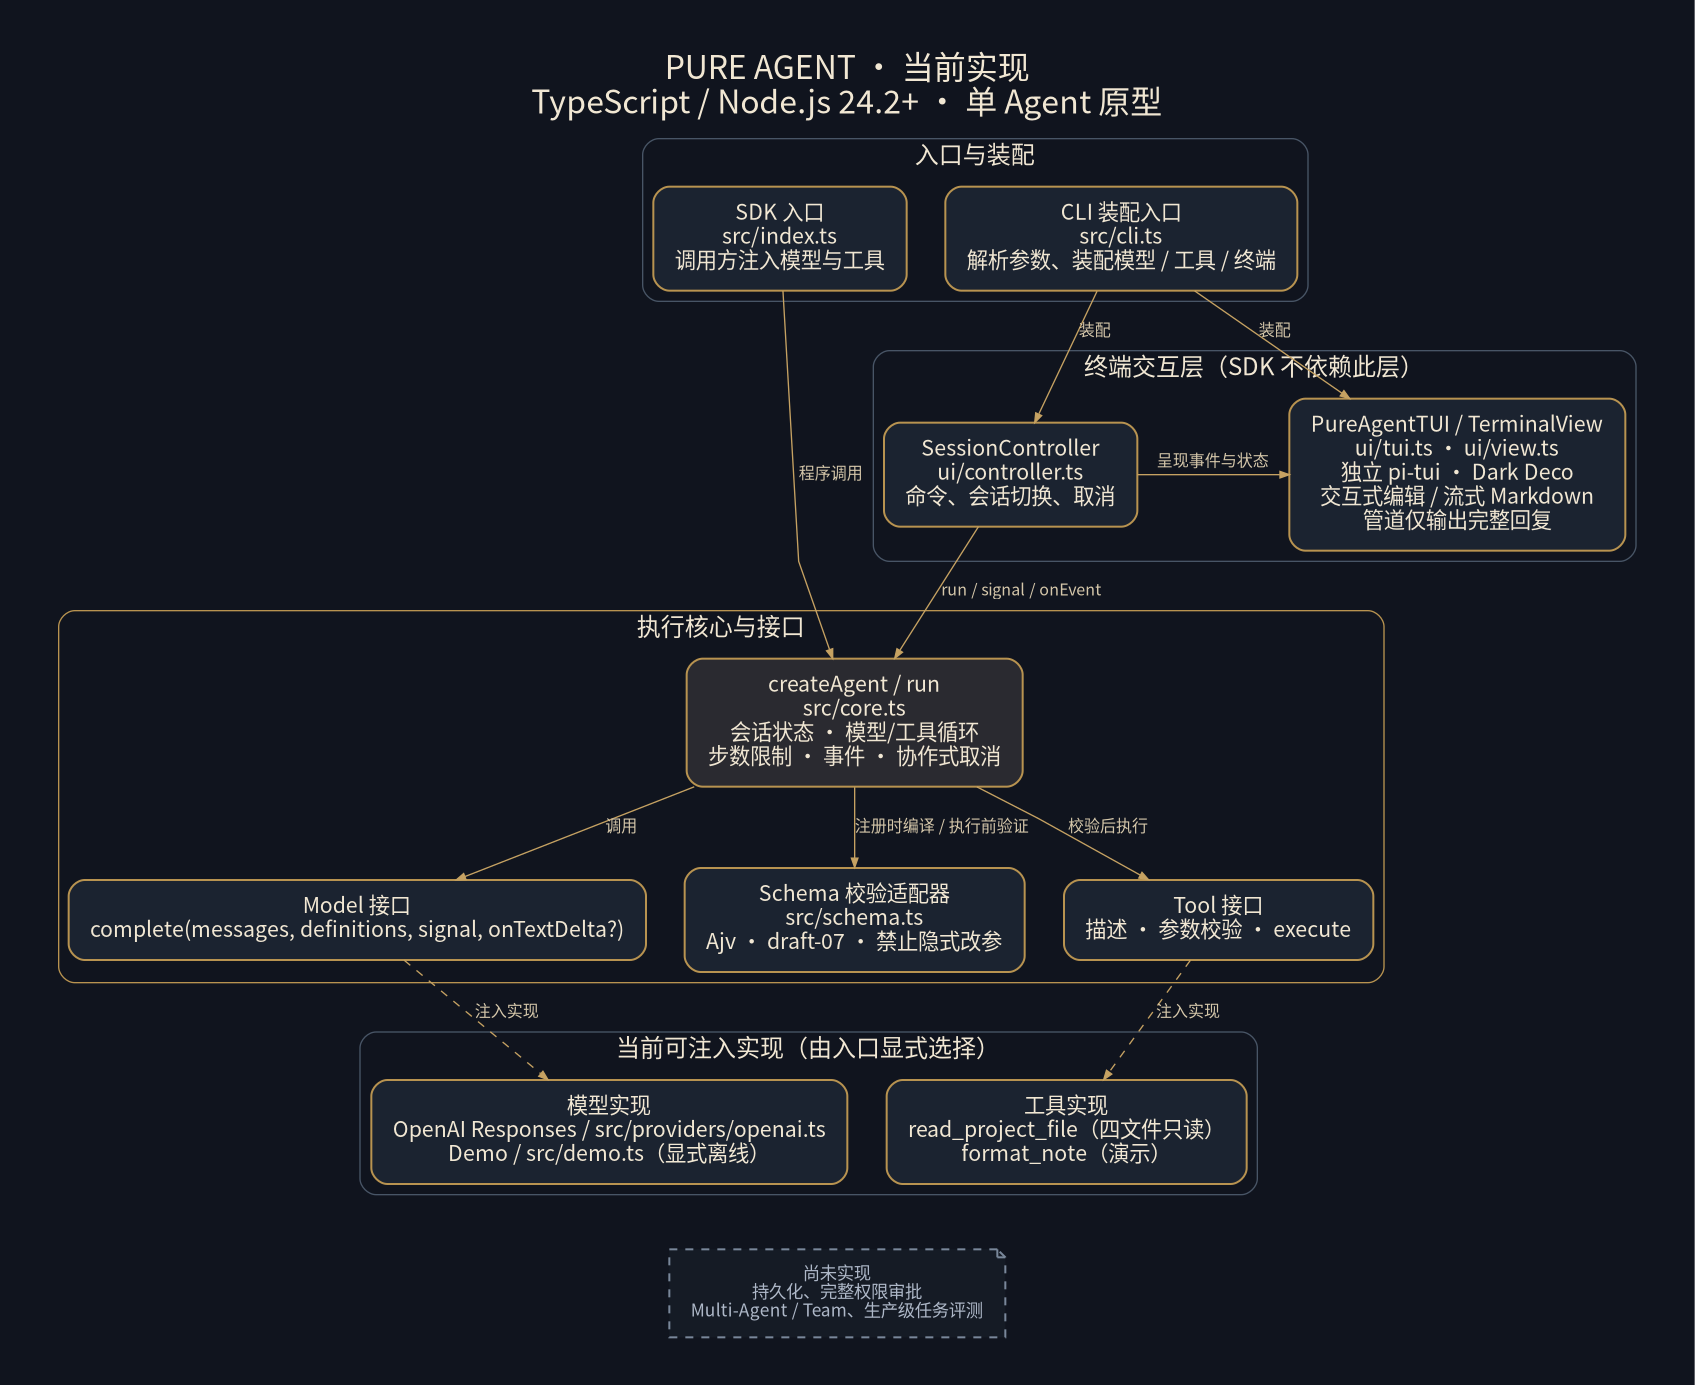
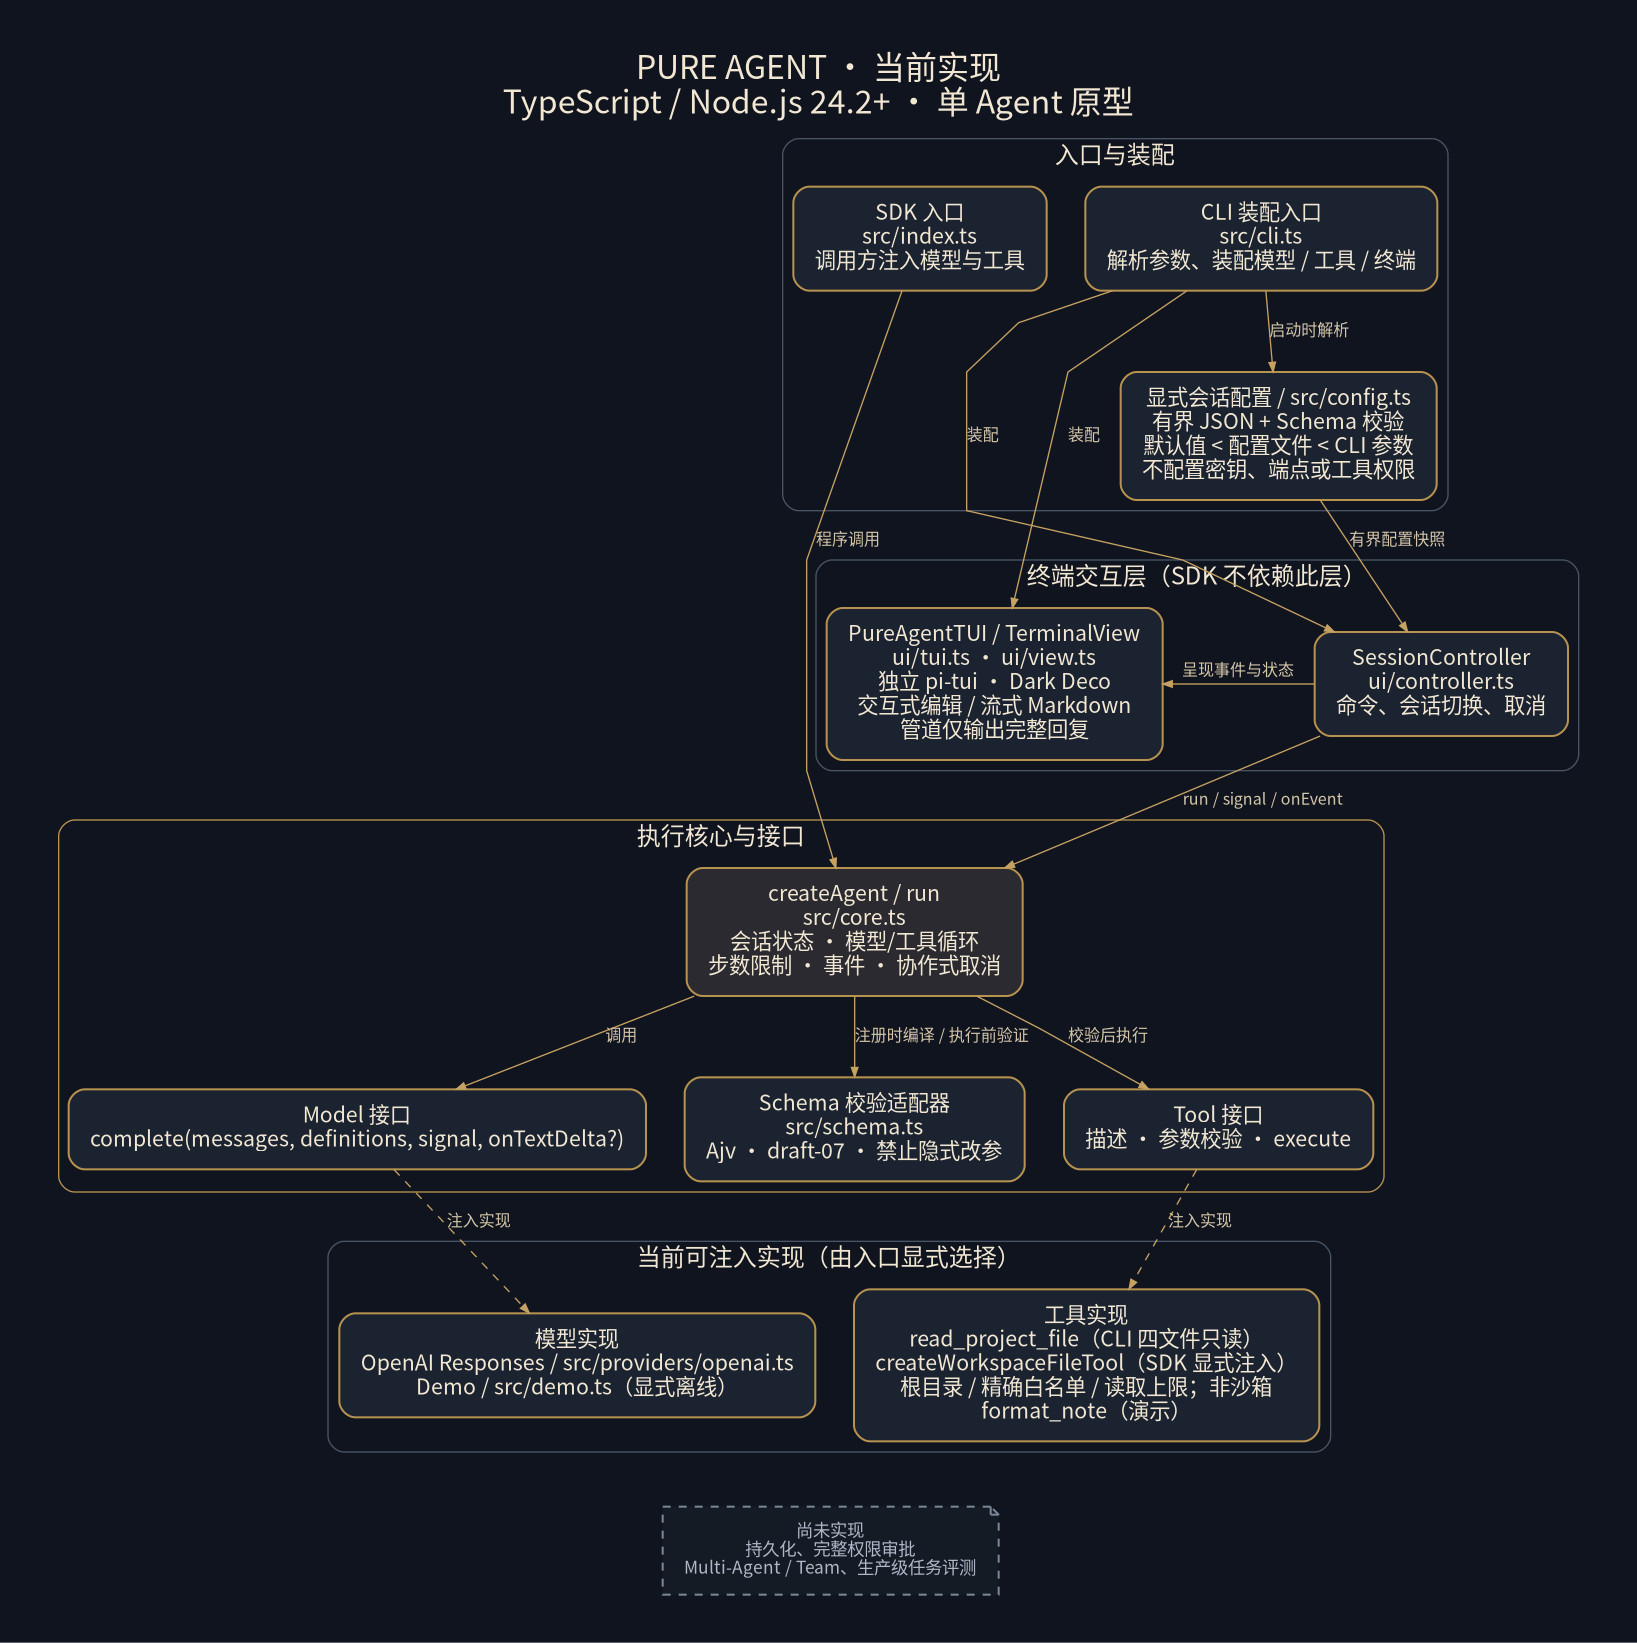
docs: update accepted SDK capabilities and architecture evidence

diff --git a/README.md b/README.md
@@ -56,13 +56,13 @@ node src/cli.ts --demo --prompt "整理这条演示笔记"
 
 ## 当前验证
 
-2026-11-02 状态快照：主干已合并初始化、显式配置、流式输出与 Windows 安装包验收。独立验收及 [双平台 CI](https://github.com/pixelieee/pure-agent/actions/runs/41493013469) 记录：Ubuntu、Windows 均通过 139 项离线测试及 1 项安装包测试；冷缓存安装包问题已修复。本文档更新未重新运行测试，后续状态以对应提交的检查为准。
+2026-11-02 状态快照：主干已合并 PR #1–#8，包括显式配置、流式输出、Windows 安装包验收、可选 SDK 工作区读取工具、CI 汇总门禁与严格静态检查。已接受主干提交为 [`3f65d5e`](https://github.com/pixelieee/pure-agent/commit/3f65d5efa3fd5169ecaae3d3e02b6b98ba7e59fe)；独立验收及 [双平台 CI run 41495942252](https://github.com/pixelieee/pure-agent/actions/runs/41495942252) 记录：Ubuntu、Windows 均通过 165 项离线测试及 2 项安装包测试，`Offline acceptance gate` 通过。本文档更新未重新运行测试，后续状态以对应提交的检查为准。
 
 终端已有交互输入、窄屏降级、重定向输出、取消后继续运行与退出的验证记录。真实模型记录只覆盖三轮限定项目资料交互与 Token 用量，不代表流式功能的真实模型验收、通用任务准确率或生产验收。
 
-安装开发依赖后执行 `npm run check`。运行时复用 Ajv、string-width、官方 OpenAI SDK 和独立 Pi TUI 模块，安装使用锁文件；不把零依赖当作目标。
+安装开发依赖后执行 `npm run check`，其中类型检查已启用 `noUnusedLocals`、`noUnusedParameters`、`noFallthroughCasesInSwitch` 和 `noImplicitReturns`；这不等于已采用完整 lint / format 门禁。GitHub 分支保护仍待确认，不能把汇总 CI 检查等同于已强制执行的保护规则。运行时复用 Ajv、string-width、官方 OpenAI SDK 和独立 Pi TUI 模块，安装使用锁文件；不把零依赖当作目标。
 
-架构图见 `docs/architecture.png`，可编辑源文件为 `docs/architecture.dot`，矢量版本为 `docs/architecture.svg`。
+架构图见 `docs/architecture.png`，可编辑源文件为 `docs/architecture.dot`，矢量版本为 `docs/architecture.svg`。使用 Graphviz 重建：`dot -Tsvg docs/architecture.dot -o docs/architecture.svg`、`dot -Tpng docs/architecture.dot -o docs/architecture.png`。
 
 ## 定位
 
@@ -103,7 +103,7 @@ node --use-env-proxy --env-file=.env.local src/cli.ts --openai --reasoning low
 
 密钥仅放本地忽略文件或由宿主注入，不能提交。CLI 默认 GPT-5.6 Luna、low；SDK 通过 `pure-agent/providers/openai` 导入适配器。当前适配器使用官方 OpenAI Responses SDK 流式接口，不自行解析 SSE；交互式 TUI 增量更新同一个 Markdown 块，管道输出仍仅显示完整回复。中断的局部文本会标记为未保存，不写入会话历史。每次回复默认最多 1024 输出 token（包括 reasoning），每轮 Agent 最多 4 个模型步骤。
 
-当前 CLI 的真实模式只提供 `read_project_file`，允许 README、package.json、依赖决策和测试前基线四个指定文件；不提供任意文件读取、shell、写入或网络工具。SDK 可注入其他工具，但宿主必须负责授权和隔离。`/create` 只修改当前 Agent 指令，不动态生成工具。
+当前 CLI 的真实模式只提供 `read_project_file`，允许 README、package.json、依赖决策和测试前基线四个指定文件；不提供任意文件读取、shell、写入或网络工具。SDK 已提供可显式注入的 `createWorkspaceFileTool`：由宿主指定根目录、精确文件白名单与读取上限，详见 [工作区只读工具](docs/workspace-file-tool.md)。它默认不注册，不自动扩大 CLI 能力，也不是安全沙箱。SDK 可注入其他工具，但宿主必须负责授权和隔离。`/create` 只修改当前 Agent 指令，不动态生成工具。
 
 模型续接数据作为 `providerData` 由适配器持有在消息中，核心仅复制保留；真实测试导出记录不包含它。`onUsage` 只回传数值用量，SDK 错误不回显请求头或密钥。
 

diff --git a/docs/roadmap.md b/docs/roadmap.md
@@ -4,20 +4,22 @@
 
 ## 已合并主干
 
-2026-11-02 状态快照：主干已合并 [初始化 PR #1](https://github.com/pixelieee/pure-agent/pull/1)、[配置 PR #2](https://github.com/pixelieee/pure-agent/pull/2)、[流式输出 PR #3](https://github.com/pixelieee/pure-agent/pull/3) 、[Windows 安装包验收 PR #5](https://github.com/pixelieee/pure-agent/pull/5) 和 [CI 汇总门禁 PR #7](https://github.com/pixelieee/pure-agent/pull/7)。
+2026-11-02 状态快照：主干已合并 PR #1–#8：初始化、显式配置、流式输出、公开文档、Windows 安装包验收、[可选 SDK 工作区读取 PR #6](https://github.com/pixelieee/pure-agent/pull/6)、[CI 汇总门禁 PR #7](https://github.com/pixelieee/pure-agent/pull/7) 与 [严格静态检查 PR #8](https://github.com/pixelieee/pure-agent/pull/8)。已接受主干提交为 [`3f65d5e`](https://github.com/pixelieee/pure-agent/commit/3f65d5efa3fd5169ecaae3d3e02b6b98ba7e59fe)。
 
 - 单会话模型 → 工具 → 观察循环，注入模型与工具，顺序执行、步数上限、协作式取消和可观察结果。
 - SDK 与 CLI 共用核心；确定性离线演示、官方 OpenAI Responses 适配器与限定文件的只读项目工具。
+- SDK 可显式注入 `createWorkspaceFileTool`：宿主选择根目录、精确文件白名单和读取上限；默认不注册、不扩大 CLI 权限，也不是沙箱。CLI 真实模式仍只有四个指定文件的读取能力，不提供任意文件读取、shell 或写入。详见 [工作区只读工具](workspace-file-tool.md)。
 - 显式 JSON 会话配置：内置默认值 < 配置文件 < 显式 CLI 参数；不自动发现配置，不允许凭据或端点覆盖。详见 [配置文档](configuration.md)。
 - 官方 SDK 流式输出与 Pi TUI 增量 Markdown 渲染；管道保留完整回复输出，中断局部文本不写入会话历史。
 - 独立 Pi TUI 模块承载编辑与终端交互，Dark Deco 视觉层不引入另一套执行核心。
-- JSON Schema 参数校验、SDK / CLI 本地安装包验收与离线模型 CI；冷缓存安装包问题已修复。固定检查 `Offline acceptance gate` 汇总双平台结果，拒绝失败、取消或跳过；GitHub 分支保护尚未配置。
+- JSON Schema 参数校验、SDK / CLI 本地安装包验收与离线模型 CI；冷缓存安装包问题已修复。固定检查 `Offline acceptance gate` 汇总双平台结果，拒绝失败、取消或跳过；GitHub 分支保护仍待用户确认，尚未配置。
+- TypeScript 已启用 `noUnusedLocals`、`noUnusedParameters`、`noFallthroughCasesInSwitch` 与 `noImplicitReturns`；仅代表这四项静态检查已采用，不代表完整 lint / format 门禁。
 
-独立验收与 [CI run 41493725748](https://github.com/pixelieee/pure-agent/actions/runs/41493725748) 记录：Ubuntu 与 Windows 均通过 139 项离线测试及 1 项安装包测试，汇总门禁通过。本次文档更新未重新运行测试，不能把该历史记录当作后续提交验收。真实模型记录只覆盖三轮限定项目资料交互，不是流式功能的真实模型验收、通用准确率、生产验收或账户花费保证。
+独立验收与 [CI run 41495942252](https://github.com/pixelieee/pure-agent/actions/runs/41495942252) 记录：Ubuntu 与 Windows 均通过 165 项离线测试及 2 项安装包测试，汇总门禁通过。本次文档更新未重新运行测试，不能把该历史记录当作后续提交验收。真实模型记录只覆盖三轮限定项目资料交互，不是流式功能的真实模型验收、通用准确率、生产验收或账户花费保证。
 
 ## 开发中：不是主干能力
 
-- [扩展项目读取 PR #6](https://github.com/pixelieee/pure-agent/pull/6)：仍待集成；主干真实模式仍只有四个指定文件的只读工具，不提供任意文件读取、shell 或写入。
+- 完整 lint / format 门禁仍在准备中，尚未采用；不把开发分支上的方案写成主干能力。
 
 分支可能独立演进；测试数量和成功记录必须绑定具体提交。合并前的组合验证不代表主干已有该能力。
 
